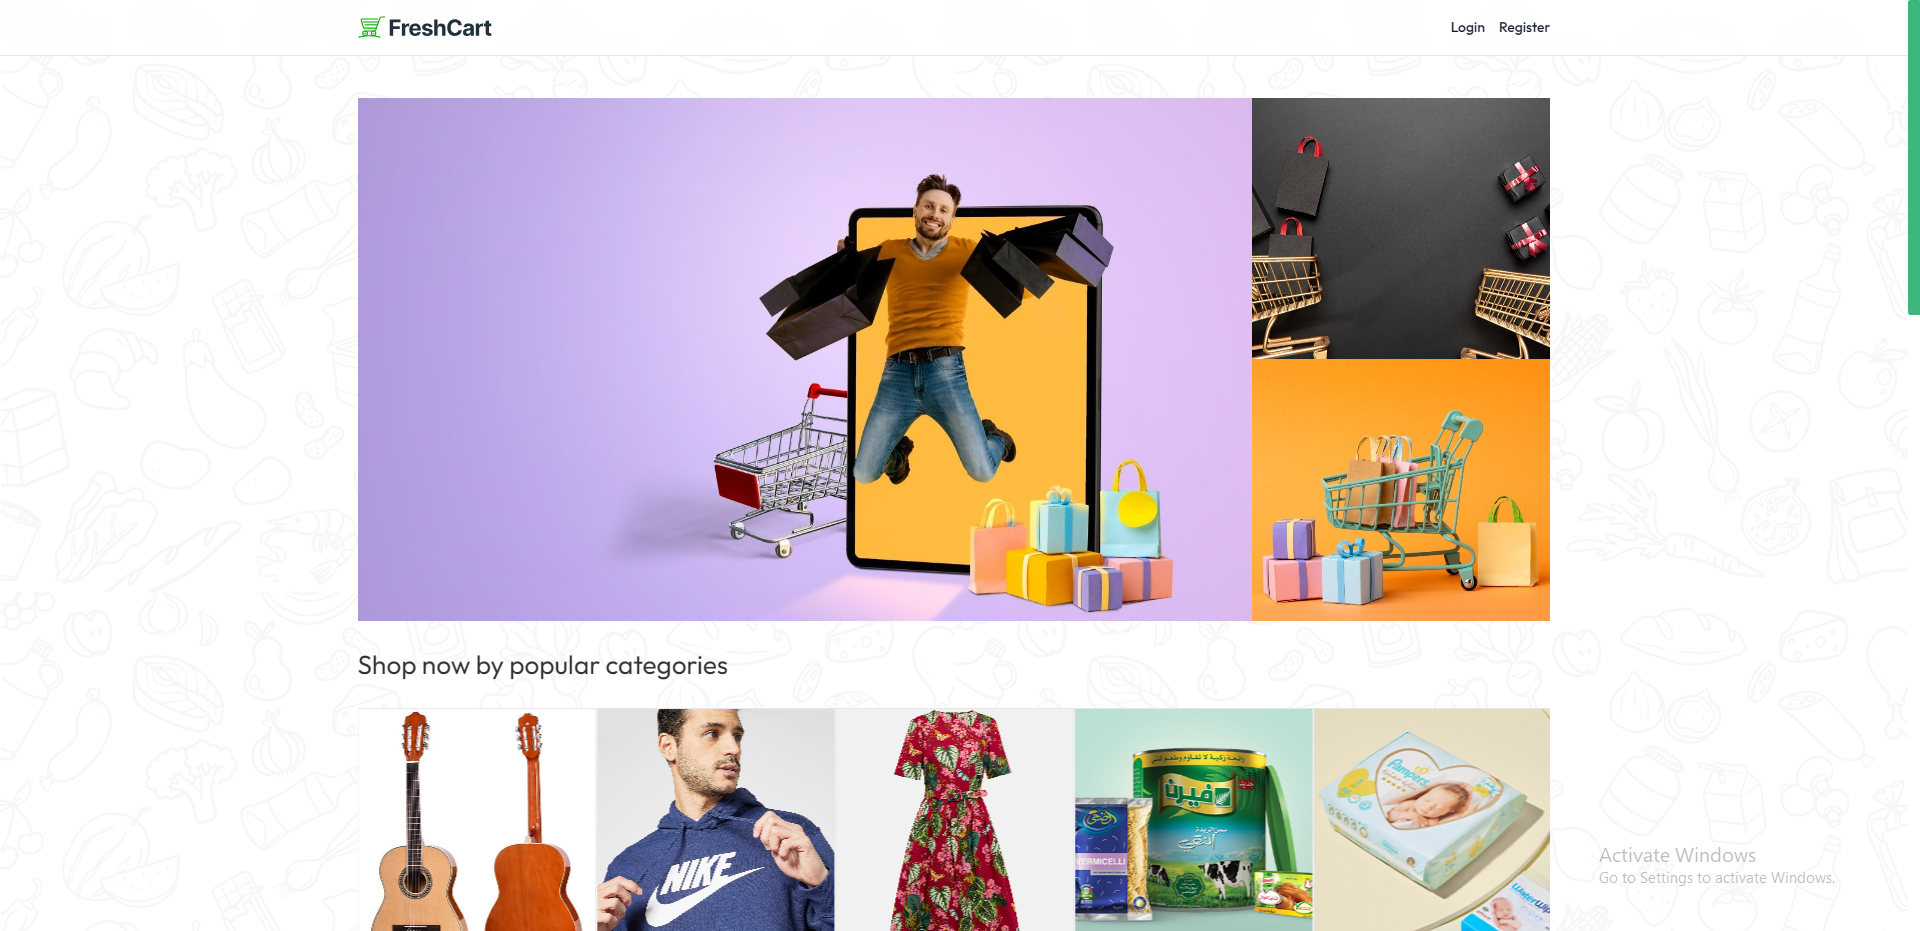
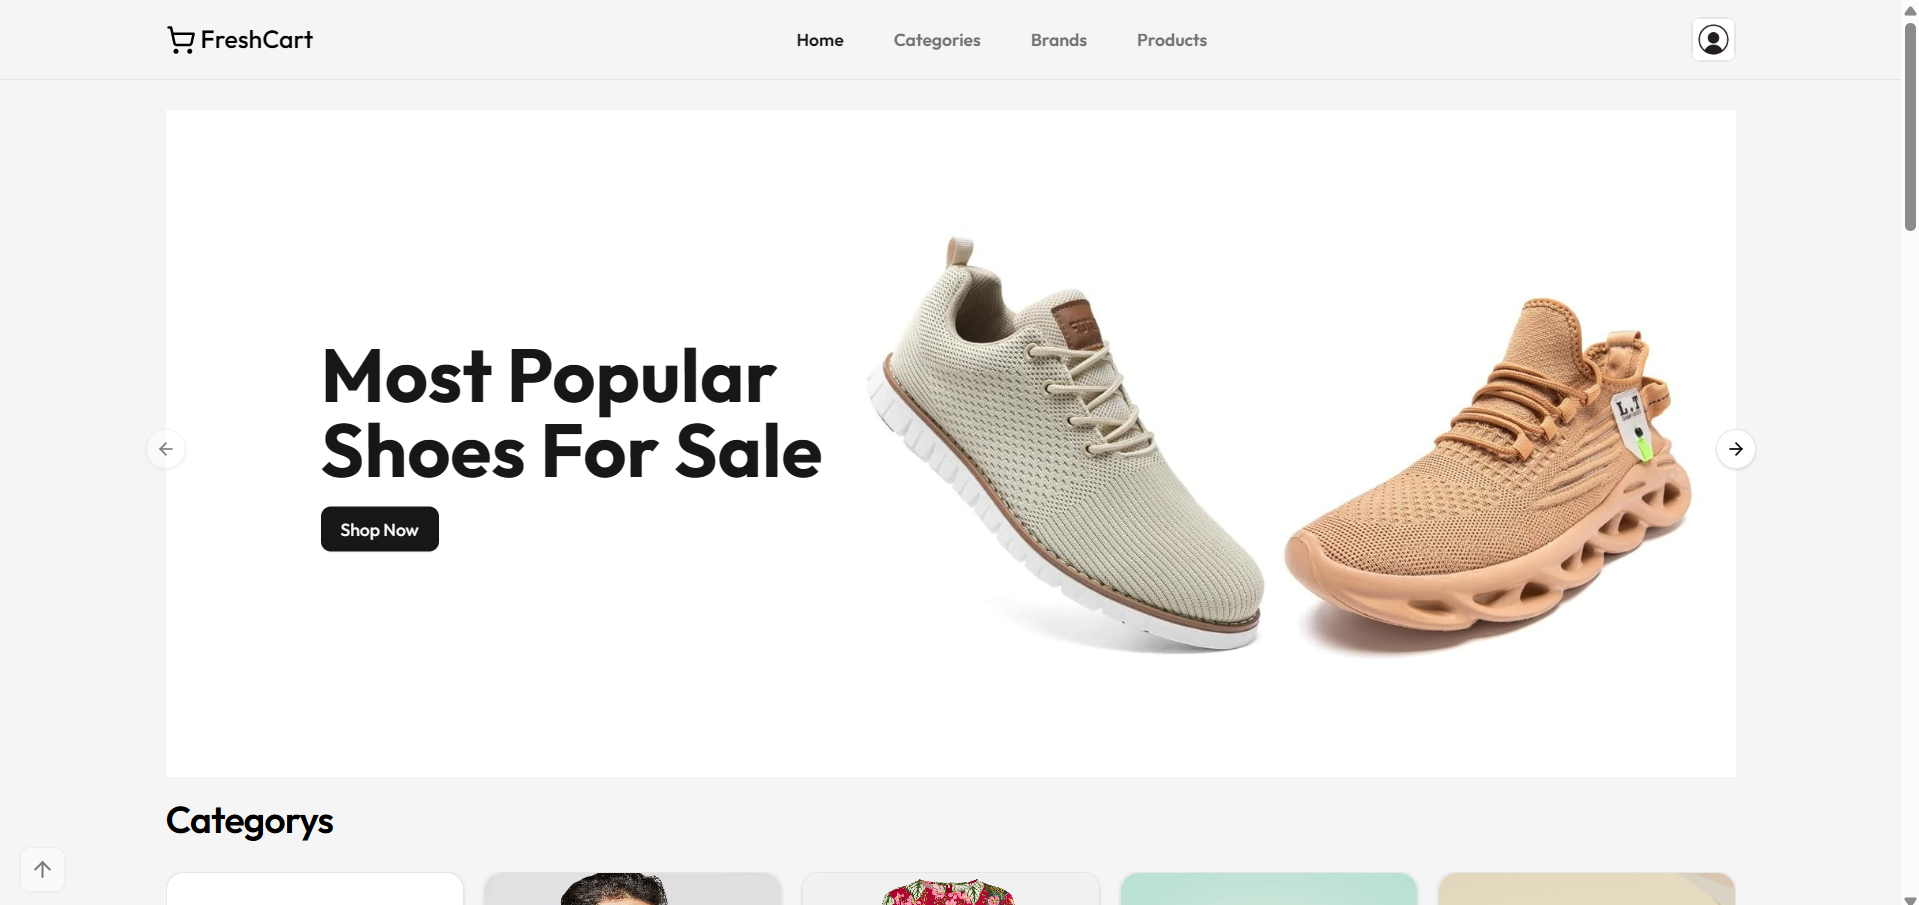
Refactor Experience section and update Footer links; enhance Hero button link and fix project URLs

diff --git a/app/Sections/Experience.tsx b/app/Sections/Experience.tsx
@@ -2,30 +2,38 @@
 import ContainerWidth from "@/components/ui/ContainerWidth";
 import { HoverBorderGradient } from "@/components/ui/HoverBorderGradient";
 import React from "react";
-import { motion } from 'framer-motion';
-import { FC } from 'react';
-import { useInView } from 'react-intersection-observer';
+import { motion } from "framer-motion";
+import { FC } from "react";
+import { useInView } from "react-intersection-observer";
 
 const Experience: FC = () => {
-const techStack = [
-    "React",
-    "Next",
+  const techStack = [
+    "React.js",
+    "Next.js",
     "TypeScript",
+    "JavaScript",
     "Framer Motion",
-    "HTML",
+    "HTML/HTML5",
     "jQuery",
-    "CSS",
+    "CSS/CSS3",
     "Tailwind",
     "Bootstrap",
     "shadcnUI",
-    "JavaScript",
-    "nextUI"
-];
-const paragraphs = [
-    "Hey! I'm Ziad, a dedicated software engineer specializing in frontend development. I primarily work with Next.js and React.js to create dynamic and responsive websites.",
-    "I am passionate about building user-centric interfaces and optimizing web performance. My freelance journey, which began in September 2023, has been complemented by valuable experiences, including a 3-month front-end training at Code Alpha, an internship at ITI",
-    "I'm always open to new opportunities where I can blend my passion for technology with my creative skills. If you have an exciting project or position that you think I might be a good fit for, let's connect.",
-];
+    "nextUI",
+    "TanStackQuery",
+    "Node.js",
+    "Express.js",
+    "RizzUI",
+  ];
+  const paragraphs = [
+    "I am currently working at inCode as a Front-End Developer since February 1, 2025. My work involves developing dashboards and fixing bugs. I specialize in building scalable web applications using React.js and Next.js, with a strong focus on performance and user experience. I also handle change requests efficiently to ensure smooth updates and optimal functionality.",
+
+    "I completed a Front-End Development course with a focus on React.js and Next.js at Route Academy.",
+
+    "I completed a Front-End Development course at the Information Technology Institute (ITI).",
+
+    "I also took a Back-End Development course on Udemy to strengthen my full-stack skills.",
+  ];
 
   return (
     <div className="flex flex-col items-center gap-[20vw] ">
@@ -34,26 +42,36 @@ const paragraphs = [
   );
 };
 
-const MaskText: FC<{ paragraphs: string[], techStack: string[] }> = ({ paragraphs, techStack }) => {
+const MaskText: FC<{ paragraphs: string[]; techStack: string[] }> = ({
+  paragraphs,
+  techStack,
+}) => {
   const { ref, inView } = useInView({
     threshold: 0.75,
-    triggerOnce: true
+    triggerOnce: true,
   });
 
   const animation = {
     initial: { y: "100%", opacity: 0 }, // Make sure the text is hidden initially
     enter: (i: number) => ({
-      y: "0", 
+      y: "0",
       opacity: 1, // Fade-in with translation
-      transition: { duration: 0.75, ease: [0.33, 1, 0.68, 1], delay: 0.075 * i }
-    })
+      transition: {
+        duration: 0.75,
+        ease: [0.33, 1, 0.68, 1],
+        delay: 0.075 * i,
+      },
+    }),
   };
 
   return (
     <ContainerWidth>
-      <div  className=" flex flex-col gap-6 py-36 ">
-        <h2 id="Experience" className="xl:text-7xl text-4xl md:text-6xl py-10 font-bold">
-          Experience
+      <div className=" flex flex-col gap-6 py-36 ">
+        <h2
+          id="Courses & Experience"
+          className="xl:text-7xl text-4xl md:text-6xl py-10 font-bold"
+        >
+          Courses & Experience
         </h2>
         <div ref={ref} className="grid grid-cols-4  gap-6">
           {/* Paragraph Section */}
@@ -75,7 +93,9 @@ const MaskText: FC<{ paragraphs: string[], techStack: string[] }> = ({ paragraph
 
           {/* Tech Stack Section */}
           <div className="lg:col-span-1 col-span-4 flex flex-col gap-6">
-            <h3 className="md:text-3xl text-2xl   font-semibold">My Tech Stack</h3>
+            <h3 className="md:text-3xl text-2xl   font-semibold">
+              My Tech Stack
+            </h3>
             <ul className="flex flex-wrap gap-3">
               {techStack.map((tech, index) => (
                 <motion.li

diff --git a/app/Sections/Projects.tsx b/app/Sections/Projects.tsx
@@ -9,19 +9,13 @@ const projects = [
     title: "FreshCard",
     src: "fresh.png",
     subTitle: "E-Commerce",
-    href: "https://fresh-cart-app-lemon.vercel.app/",
+    href: "https://fresh-card-shop.vercel.app/",
   },
   {
     title: "cinema-base",
     src: "movie1.png",
     subTitle: "Movies Website",
-    href: "https://cinema-base-1.vercel.app/",
-  },
-  {
-    title: "Recipe-Website",
-    src: "rec.png",
-    subTitle: "recipe website",
-    href: "https://ziadalaa984.github.io/Yummy/",
+    href: "https://ciname-base.vercel.app/",
   },
   {
     title: "AI",
@@ -31,11 +25,10 @@ const projects = [
     subTitle: "LandingPage",
   },
   {
-    title: "old-Portofolio",
-    src: "oldPorto.png",
-
-    href: "https://portofolioo-eight.vercel.app/",
-    subTitle: "Portofolio",
+    title: "Recipe-Website",
+    src: "rec.png",
+    subTitle: "recipe website",
+    href: "https://ziadalaa984.github.io/Yummy/",
   },
 ];
 
@@ -47,7 +40,7 @@ export default function Projects() {
       <main className="flex min-h-screen  py-36 flex-col justify-center">
         <h2
           id="Projects"
-          className="xl:text-7xl text-4xl md:text-6xl   h-[15vh]  text-white  z-10 relative   font-bold"
+          className="xl:text-7xl text-4xl md:text-6xl   h-[15vh]  text-white   relative   font-bold"
         >
           My Projects.
         </h2>

diff --git a/app/Sections/Hero.tsx b/app/Sections/Hero.tsx
@@ -30,12 +30,16 @@ export default function Hero() {
           <div className="md:col-span-3 col-span-4 flex flex-col  md:gap-6">
             <div className="flex gap-3   items-center">
               <TypewriterEffectSmooth words={Name} />
-              <FramerMagnetic >
-
+              <FramerMagnetic>
                 <Button className="  rounded-full cursor-pointer flex justify-center items-center text-white text-xs xl:text-lg font-light   text-wrap border shadow-stone-950 bg-transparent hover:bg-stone-950 transition-all duration-300 border-stone-900  ">
-                  <Link href={"https://flowcv.com/resume/rp9g5omhik"} target="_blank">
+                  <Link
+                    href={
+                      "https://drive.google.com/drive/folders/1lNxKvvA-3T0i79LFhdKmU_ujmjv7cBHD"
+                    }
+                    target="_blank"
+                  >
                     Resume
-                    </Link>
+                  </Link>
                 </Button>
               </FramerMagnetic>
             </div>

diff --git a/app/Sections/Footer.tsx b/app/Sections/Footer.tsx
@@ -5,7 +5,7 @@ export default function Footer() {
   return (
     <section className=" bg-black w-full  border-t border-stone-900 footer  md:mt-0 p-5 md:p-8 ">
       <div className="flex mx-auto flex-col   justify-start   gap-4  items-center w-full">
-                <div className="text-center">
+        <div className="text-center">
           <p className="text-sm font-bold tracking-wider  name text-white">
             Copyright© 2024 ziadalaa.
           </p>
@@ -23,7 +23,7 @@ export default function Footer() {
               <a
                 target="_blank"
                 rel="noopener noreferrer"
-                href="https://www.linkedin.com/in/ziad-alaa-1a1269315/"
+                href="https://www.linkedin.com/in/ziad-alaa-b7226035b/"
               >
                 <svg
                   xmlns="http://www.w3.org/2000/svg"
@@ -98,7 +98,6 @@ export default function Footer() {
             </li>
           </FramerMagnetic>
         </ul>
-
       </div>
     </section>
   );
